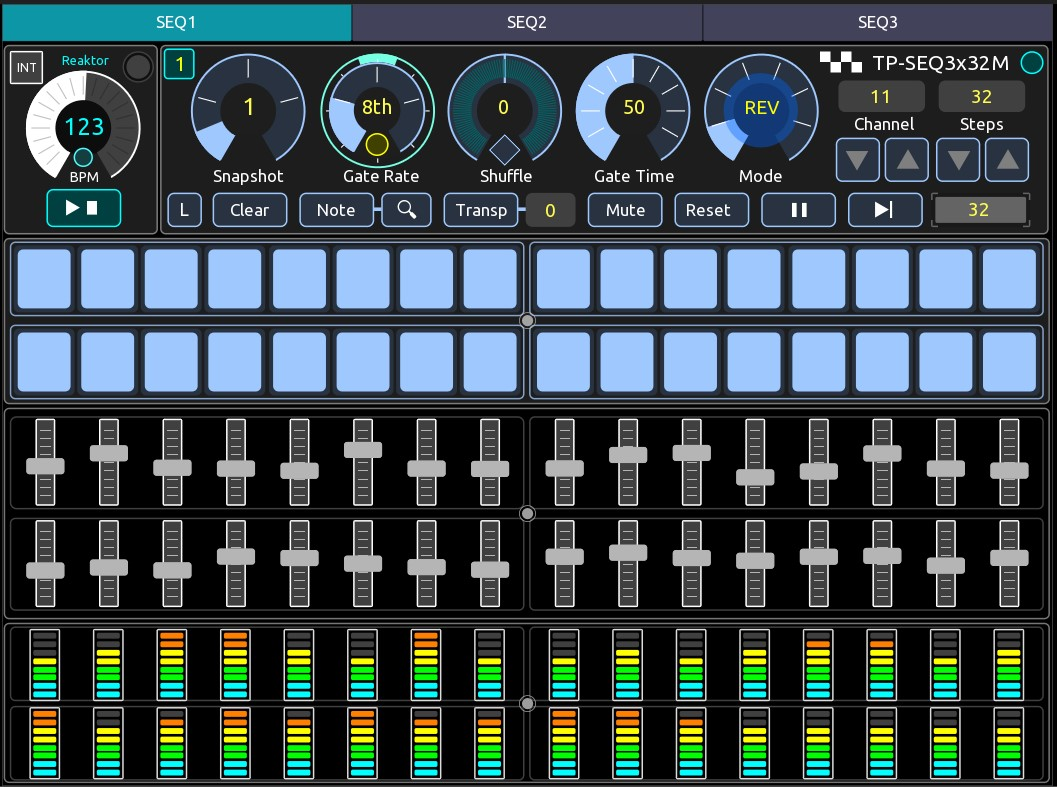
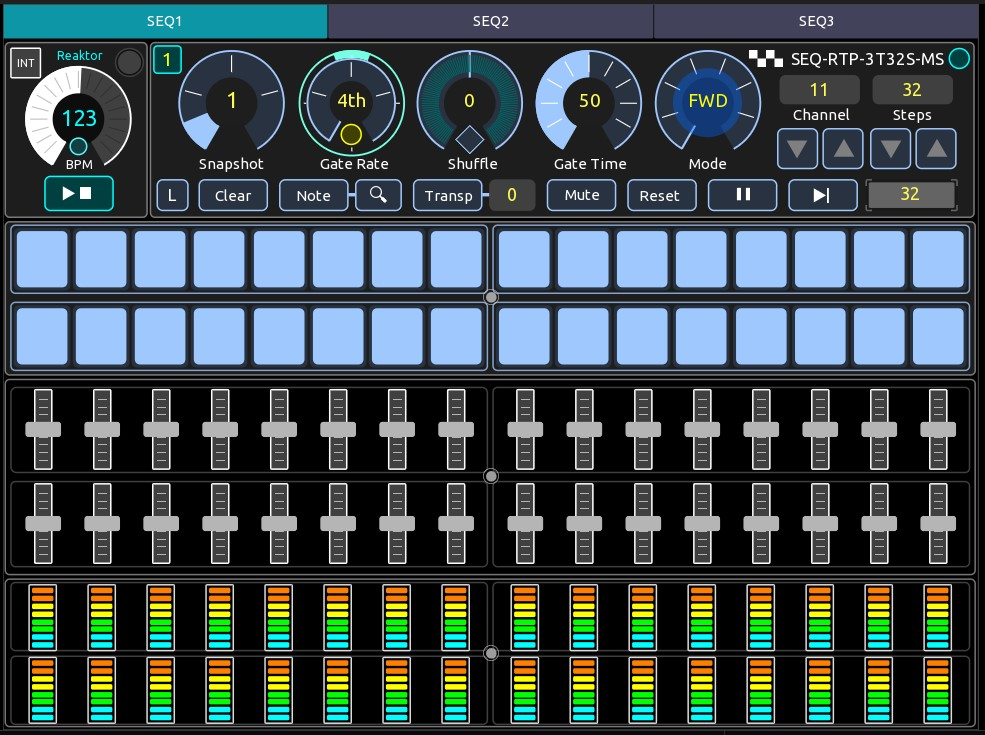
Update Files

diff --git a/README.md b/README.md
@@ -9,11 +9,30 @@
 <img src="images/img1.gif" >
 </div>
 
+
+## Contents
+- [Description](#description)
+- [Operation](#operation)
+- [User Guide](USER_GUIDE.md)
+- [Instrument](#instrument)
+- [Sequencer](#sequencer)
+- [Reaktor rack](#reaktor-rack)
+- [Connections](#connections)
+- [Requirements](#requirements)
+- [Files](#files)
+- [License](#license)
+- [Support the Author](#support-the-author)
+
+
 ## Description
-A TouchOSC template to control a Reaktor 3 tracks 32 STEPS Sequencer virtual instrument, using ToyBox Tangle Pack modular blocks. It "materializes" a well featured  "physical" sequencer for your musical production workflow to  jam and inspire your productions.
+A TouchOSC template to control a Reaktor 3 tracks 32 STEPS Sequencer virtual instrument, using the [ToyBox Tangle Pack](https://www.toyboxaudio.com/pages/tangle-pack) modular blocks. It "materializes" a well featured  "physical" sequencer for your musical production workflow to  jam and inspire your productions.
 
 ## Operation
 The template is  with Reaktor running in standalone mode outside of your DAW using the rack (preset) file included in the repository, with clock synchronization in 3 modes:
+
+<div align="center"> 
+<img src="images/img4.gif" >
+</div>
 
 ### Clock Mode 1: Reaktor internal Clock
 In this mode Reaktor works as the master clock source. Select INT as the clock source in the template and send MIDI Clock to MIDI output in Reaktor. Configure your DAW or your external synthesizer or modular gear to receive and sync to a external clock source provide by Reaktor. Each DAW and external gear handles clock configuration slightly differently, so how you enable clock synchronization to a external source may require specific setup steps in each environment.
@@ -34,81 +53,7 @@ Run a virtual midi port in your computer to communicate Reaktor with your DAW (l
 As long as your template and your DAW session are open, both are in sync. But once you close any of them, further changes will lose sync. To keep it in sync, it is recommended to manually save your template and DAW session simultaneously before closing, to keep your session and snapshots to continue working later by recalling them. Be aware that TouchOSC does not support automatic template saving, so you must do it mannualy. Also be aware that the template uses "absolute" scaling, so you occasionally will need to move the controllers to pick up the correct value.
 
 
-## Controls
-
-
-### INT/EXT
-Allows you to select Internal or External clock source. The Play/Stops controls change accordingly and the BPM values scales. If you select EXT, two options are enabled: Ableton Link and Reason. If you use other external DAW instead of Reason, you can do it, but you need to change the BPM scale values inthe script to match the values and scales in your DAW. 
-
-### BPM
-Select de beats per minute in either REAKTOR (INT) or your external DAW (EXT). You will need to MIDI map mannualy the BPM control in your DAW and match the scale. (Reason DAW is already configured). 
-
-### Play / Stop
-- INT clock mode: PLAY/STOP are already OSC mapped to the Reaktor rack. 
-
-- EXT CLock - Ableton Link: First you will need to midi map this controls to your DAW. Two play buttons are avalilable in this mode, one for Reaktor and one for Ableton. Reaktor can play or stop independent of Ableton, but is linked in beat, phase and tempo to the master clock of Ableton. (But Ableton can start the playing in Reaktor if the Sync option is selected in the midi output ports settings). In this mode Reaktor does not have a modular block to control the start/stop control inside the rack. Play/stop control works with a space bar message whis is sent by the template, but it requires the "focus" on the Reaktor window to work. Unfortunately this is a limitation that you will need to take into account. A stream deck will easy the workflow to work it. 
-
-- EXT Clock - Reason (Or other external DAW): First you will need to midi map this controls to your DAW. One play/stop button is available, that is mapped to your DAW. The DAW has the transport control and it start and stop the transport in Reaktor. 
-
-### Snapshots
-The template supports the snapshot (preset) functionality, that allows you to save and recall up to four configurations per sequencer: note, gate, velocity and modulation controls. Each time you select a snapshot,  it automatically changes the value in the Reaktor file. But be aware it is no bidirectional, that means, if you change a value in the Reaktor rack, it will not be updated to the template. The template acts as the "master" configuration. If you want to start from zero, just run press the CLEAR button with the LINK enabled to clear the values at once in the 3 sequencers and repeat that for each snapshot. 
-
-### Link
-The LINK (L) button, links several commands, that allows you to execute it simultaneously on the 3 sequencers. The commands that works with the "LINK" feature are: SNAPSHOT, CLEAR, NOTE, TRANSP, MUTE, RESET, PAUSE, and STEP. Just press the L button and it will color in orange the "linked" controls. 
-
-
-### Clear
-Initializes the values of the sequencer track (all 3 if LINK selected) to a starting values of: gate = all selected, note = C3, velocity = 100, Gate Rate = 4th, Shuffle = 0%, Gate Time = 50, Mode = FWD, Steps = 32. 
-
-
-### Note display and zoom
-Display the pitch values of each step, displayed on the top of each step gate button. That will easy to setup the note values of each step. The zoom button on the right, extends the faders to input the pitch values, and meke it more easy an confortable to slide the faders. 
-
-### Transpose
-The template has included a -24+24 interval keyboard to transpose, to make it easy to transpose each sequencer track (all 3 if LINK selected), without the need of an external midi controller. It displays the transpose interval according to the key pressed, being C3 the central key. It is displayed or hidden when you press the Transp control. 
-
-### Mute 
-Mute the selected track (all 3 if LINK selected). The sequencer steps continue running, but without MIDI output
-
-
-### Reset
-Reset the track position to the start on the selected track (all 3 if LINK selected). The start position is 1 or the last step, depending on the sequqncer direction mode. 
-
-### Pause
-Pause the selected track (all 3 if LINK selected). The sequencer steps stops, and no MIDI output. The internal ramp generator continue running, and it will continue on a future step when finshing the pause. 
-
-### Step 
-Advance one step the selected track (all 3 if LINK selected). This is useful to test your sequence.  
-
-### Gate Rate
-Select the gate rate of each track: 4th, 8th, 16th, 32th and 64th.
-
-
-### Shuffle
-Select a shuffle of each track to introduce cariations in the rythm.
-
-### Gate Time
-Select a gate time of each track.
-
-### Mode
-Select one of the 8 sequencer modes: FWD, REV, FWD-REV, TRI, PATT1, PATT2, RAND, GLITCH. 
-
-### Channel
-Select the midi output channel for each sequencer track. Take care to use a midi channel that is not used by any other instrument and use a virtual MIDI port in your computer, that is not used or reserved by other DAW or applications. loopMIDI is a good option that allows you to create any number of virtual ports that you need.
-
-### Steps
-Select the number of steps for each sequencer track, that can be up to 32 steps. The steps that are not used, change to a hidden state in the template, so you have a visual feedback of the steps available. 
-
-### Gate section
-Select each step to play it or not. It can be changed an any time and its value is stored automatically in the corresponding snapshot. But remember to mannualy save the template if you close it to keep the values. Depending on the number of steps selected, the gate steps can be displayed or hidden. 
-
-### Note (Pitch) section
-Select the value of the note on each step. It can be changed at any time and its value is stored automatically in the corresponding snapshot. But remember to mannualy save the template if you close it to keep the values. Depending on the number of steps selected, the note steps can be displayed or hidden. The note value that you change in the fader can be displayed when you press the Note button. If you press the zoom button, the note faders are expanded and you can more easily move it to setup your note values. 
-
-### Velocity section
-Select the value of the velocity (volume level) on each steps. It works only if your instrument support velocity control. It can be changed at any time and its value is stored automatically in the corresponding snapshot. But remember to mannualy save the template if you close it to keep the values. Depending on the number of steps selected, the velocity steps can be displayed or hidden. The velocity value that you change in the fader can be displayed automatically over the note group. 
-
-
+ 
 <br>
 
 ## Instrument
@@ -148,6 +93,7 @@ Select the value of the velocity (volume level) on each steps. It works only if 
 ## Reaktor rack
 - Blocks: ToyBox Tangle Pack
 - Rack: Author designed rack with note, gate, level, ramp, counter, clock and utility modular blocks.  
+- File: SEQ-RTP-3T32S-MS-v1_0.nksr
 
 <div align="center"> 
 <img src="images/img3.jpg" >
@@ -171,6 +117,10 @@ Select the value of the velocity (volume level) on each steps. It works only if 
 - Target virtual instrument: Any virtual instrument in your DAW
 - Target external instrument:  Any external midi instrument
 - MIDI: Virtual MIDI ports
+
+## Files 
+- TouchOSC template: SEQ-RTP-3T32S-MS-v1.0.tosc
+- Reaktor rack:      SEQ-RTP-3T32S-MS-v1_0.nksr
 
 ## License
 

diff --git a/USER_GUIDE.md b/USER_GUIDE.md
@@ -1,0 +1,107 @@
+## Reaktor ToyBox Tangle Pack Sequencer TouchOSC template
+
+## USER GUIDE
+
+## Contents
+- [Transport](#transport)
+- [Control](#controls)
+- [Sequencer](#sequencer)
+
+
+## Transport
+
+<div align="center"> 
+<img src="images/img5.jpg" with=70% >
+</div>
+
+### INT/EXT CLOCK
+Allows you to select Internal or External clock source. The Play/Stops controls change accordingly and the BPM values scales. If you select EXT, two options are enabled: Ableton Link and Reason. If you use other external DAW instead of Reason, you can do it, but you need to change the BPM scale values inthe script to match the values and scales in your DAW. 
+
+### BPM
+Select de beats per minute in either REAKTOR (INT) or your external DAW (EXT). You will need to MIDI map mannualy the BPM control in your DAW and match the scale. (Reason DAW is already configured). BPM is the same for all 3 sequencers.
+
+### Play / Stop
+Play and stop all 3 sequencers. It has 3 modes of operation, depending on the selected clock source:
+
+- **INT** clock mode: PLAY/STOP are already OSC mapped to the Reaktor rack. 
+
+- **EXT** CLock - **Ableton Link** : First you will need to midi map this controls to your DAW. Two play buttons are avalilable in this mode, one for Reaktor and one for Ableton. Reaktor can play or stop independent of Ableton, but is linked in beat, phase and tempo to the master clock of Ableton. (But Ableton can start the playing in Reaktor if the Sync option is selected in the midi output ports settings). In this mode Reaktor does not have a modular block to control the start/stop control inside the rack. Play/stop control works with a space bar message whis is sent by the template, but it requires the "focus" on the Reaktor window to work. Unfortunately this is a limitation that you will need to take into account. A stream deck will easy the workflow to work it. 
+
+- **EXT** Clock - **Reason** (Or other external DAW): First you will need to midi map this controls to your DAW. One play/stop button is available, that is mapped to your DAW. The DAW has the transport control and it start and stop the transport in Reaktor. 
+
+<div align="center"> 
+<img src="images/img8.jpg" with=70% >
+</div>
+
+### Mute 
+Mute the selected track (all 3 if LINK selected). The sequencer steps continue running, but without MIDI output
+
+### Reset
+Reset the track position to the start on the selected track (all 3 if LINK selected). The start position is 1 or the last step, depending on the sequqncer direction mode. 
+
+### Pause
+Pause the selected track (all 3 if LINK selected). The sequencer steps stops, and no MIDI output. The internal ramp generator continue running, and it will continue on a future step when finshing the pause. 
+
+### Step 
+Advance one step the selected track (all 3 if LINK selected). This is useful to test your sequence.  
+
+
+## Control
+
+<div align="center"> 
+<img src="images/img6.jpg" with=70% >
+</div>
+
+### Snapshots
+The template supports the snapshot (preset) functionality, that allows you to save and recall up to four configurations per sequencer: note, gate, velocity and controls ( gate rate, shuffle, gate time, mode and steps). MIDI channel does not change with each snapshot. Each time you select a snapshot,  it automatically changes the value in the Reaktor file. But be aware it is no bidirectional, that means, if you change a value in the Reaktor rack, it will not be updated to the template. The template acts as the "master" configuration. If you want to start from zero, just run press the CLEAR button with the LINK enabled to clear the values at once in the 3 sequencers and repeat that for each snapshot. 
+
+### Link
+The LINK (L) button, links several commands, that allows you to execute it simultaneously on the 3 sequencers. The commands that works with the "LINK" feature are: SNAPSHOT, CLEAR, NOTE, TRANSP, MUTE, RESET, PAUSE, and STEP. Just press the L button and it will color in orange the "linked" controls. 
+
+### Gate Rate
+Select the gate rate of each track: 4th, 8th, 16th, 32th and 64th.
+
+### Shuffle
+Select a shuffle of each track to introduce cariations in the rythm.
+
+### Gate Time
+Select a gate time of each track.
+
+### Mode
+Select one of the 8 sequencer modes: FWD, REV, FWD-REV, TRI, PATT1, PATT2, RAND, GLITCH. 
+
+### Channel
+Select the midi output channel for each sequencer track. Take care to use a midi channel that is not used by any other instrument and use a virtual MIDI port in your computer, that is not used or reserved by other DAW or applications. loopMIDI is a good option that allows you to create any number of virtual ports that you need.
+
+### Steps
+Select the number of steps for each sequencer track, that can be up to 32 steps. The steps that are not used, change to a hidden state in the template, so you have a visual feedback of the steps available. 
+
+### Clear
+Initializes the values of the sequencer track (all 3 if LINK selected) to a starting values of: gate = all selected, note = C3, velocity = 100, Gate Rate = 4th, Shuffle = 0%, Gate Time = 50, Mode = FWD, Steps = 32. 
+
+### Note display and zoom
+Display the pitch values of each step, displayed on the top of each step gate button. That will easy to setup the note values of each step. The zoom button on the right, extends the faders to input the pitch values, and meke it more easy an confortable to slide the faders. 
+
+### Transpose
+The template has included a -24+24 interval keyboard to transpose, to make it easy to transpose each sequencer track (all 3 if LINK selected), without the need of an external midi controller. It displays the transpose interval according to the key pressed, being C3 the central key. It is displayed or hidden when you press the Transp control. 
+
+<div align="center"> 
+<img src="images/img9.jpg" with=70% >
+</div>
+
+
+## Sequencer
+
+<div align="center"> 
+<img src="images/img7.jpg" with=70% >
+</div>
+
+### Gate section
+Select each step to play it or not. It can be changed an any time and its value is stored automatically in the corresponding snapshot. But remember to mannualy save the template if you close it to keep the values. Depending on the number of steps selected, the gate steps can be displayed or hidden. 
+
+### Note (Pitch) section
+Select the value of the note on each step. It can be changed at any time and its value is stored automatically in the corresponding snapshot. But remember to mannualy save the template if you close it to keep the values. Depending on the number of steps selected, the note steps can be displayed or hidden. The note value that you change in the fader can be displayed when you press the Note button. If you press the zoom button, the note faders are expanded and you can more easily move it to setup your note values. 
+
+### Velocity section
+Select the value of the velocity (volume level) on each steps. It works only if your instrument support velocity control. It can be changed at any time and its value is stored automatically in the corresponding snapshot. But remember to mannualy save the template if you close it to keep the values. Depending on the number of steps selected, the velocity steps can be displayed or hidden. The velocity value that you change in the fader can be displayed automatically over the note group. 
+
